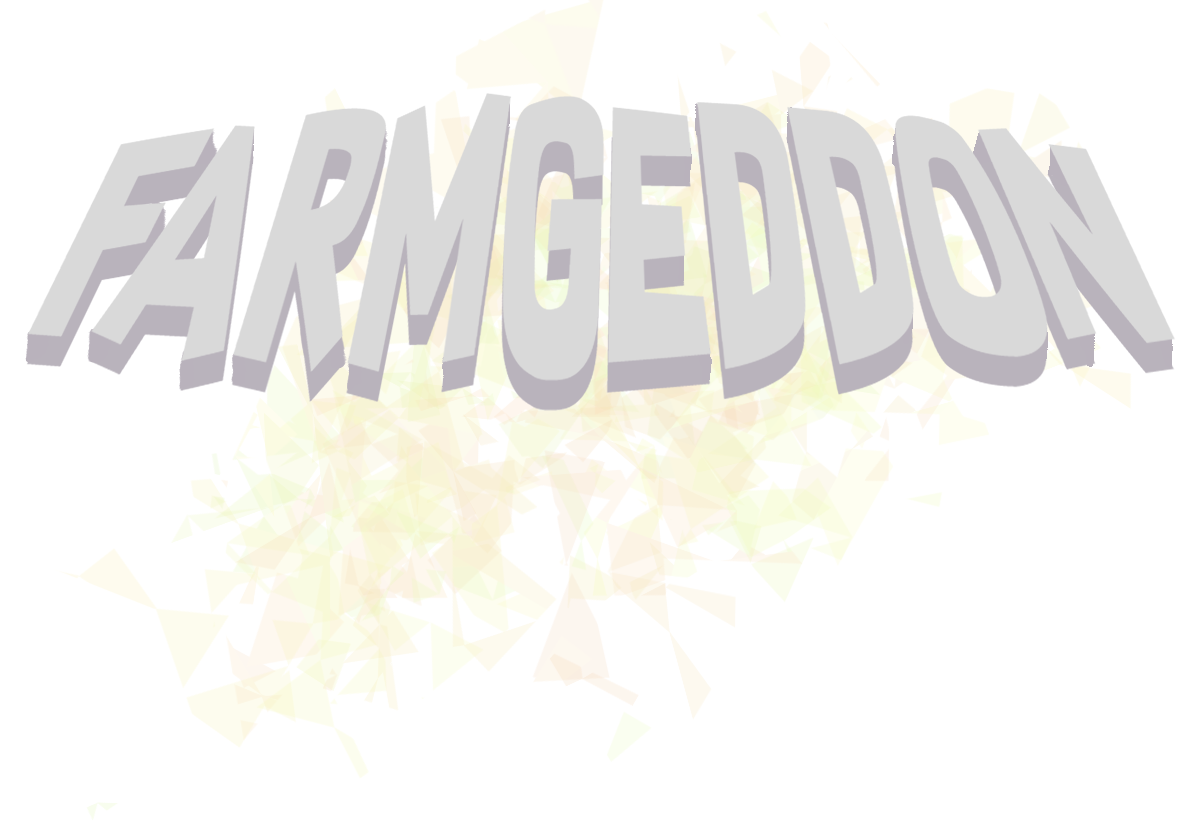
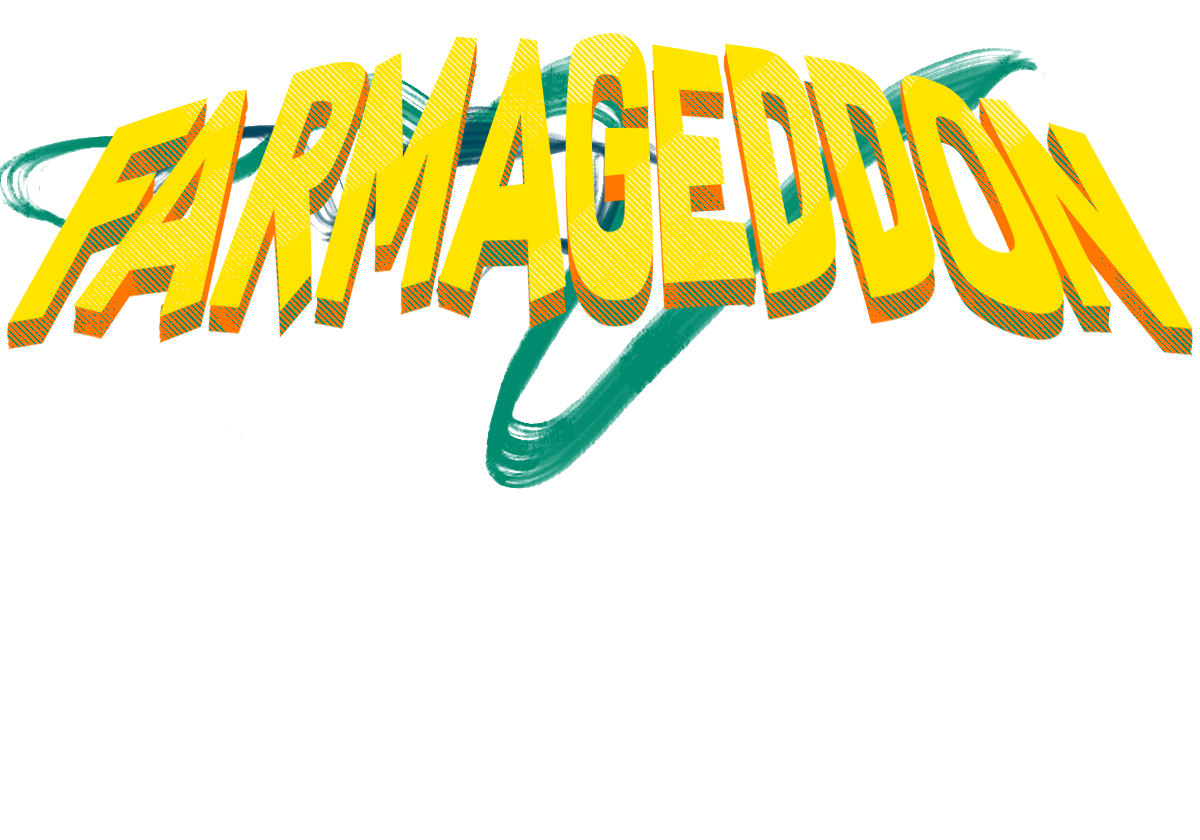
[ld38_smallworld] game over screen

diff --git a/ld38_smallworld/smallworld/code/SmallWorld-Main.cpp b/ld38_smallworld/smallworld/code/SmallWorld-Main.cpp
@@ -60,6 +60,7 @@ struct UIMedia {
     struct nk_font *font_20;
     struct nk_font *font_24;
     struct nk_image farmageddon_title;
+    struct nk_image farmageddon_gameover;
 } g_uiMedia;
 
 // derived application class
@@ -412,6 +413,9 @@ TestApp::OnRunning() {
     // Draw UI
     nk_context* ctx = NKUI::NewFrame();
     
+    ctx->style.window.fixed_background.data.color.a = 200;
+    ctx->style.button.normal.data.color.a = 200;
+    
     enum {EASY, HARD};
     static int op = EASY;
     static float value = 0.6f;
@@ -619,6 +623,7 @@ TestApp::OnInit() {
 
     
     load_icon( "data:farmageddon_title.png", &(g_uiMedia.farmageddon_title));
+    load_icon( "data:farmageddon_gameover.png", &(g_uiMedia.farmageddon_gameover));
     
     // Initialize teams and weapons
     MakeDefaultTeams( teams );
@@ -1470,7 +1475,7 @@ TestApp::DoGameUI_Results( nk_context* ctx )
         
         nk_layout_row_dynamic( ctx, 420, 1);
         //nk_label(ctx, "Image Goes Here.", NK_TEXT_CENTERED );
-        nk_image( ctx, g_uiMedia.farmageddon_title ); // TODO: Game Over
+        nk_image( ctx, g_uiMedia.farmageddon_gameover );
         
         nk_layout_row_dynamic( ctx, 20, 1);
         nk_label( ctx, "Winner:", NK_TEXT_CENTERED );
@@ -1754,7 +1759,9 @@ TestApp::DoGameUI_Gameplay( nk_context* ctx )
                     
                     ctx->style.button.border_color = (ndx==activeCannon)?activeBorder.data.color:oldButtonStyle.border_color;
                     
-                    nk_button_label( ctx, (cc.health > 0)?cc.name:"R.I.P" );
+                    if (nk_button_label( ctx, (cc.health > 0)?cc.name:"R.I.P" )) {
+                        lookAtCannon( cc );
+                    }
                 }
                 ndx++;
             }
